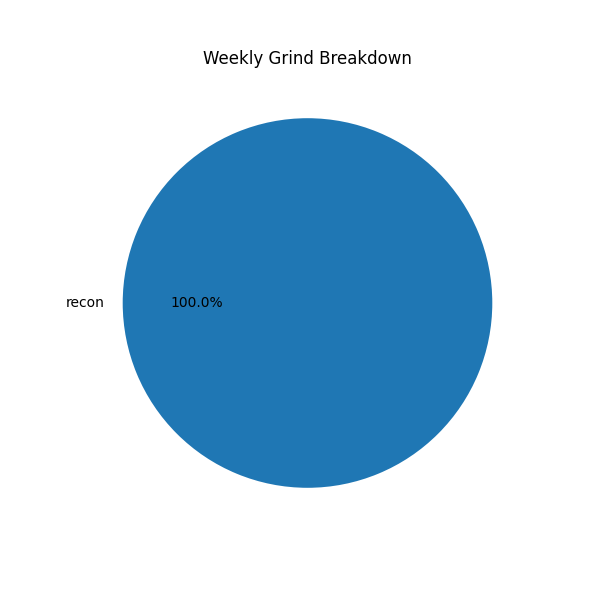
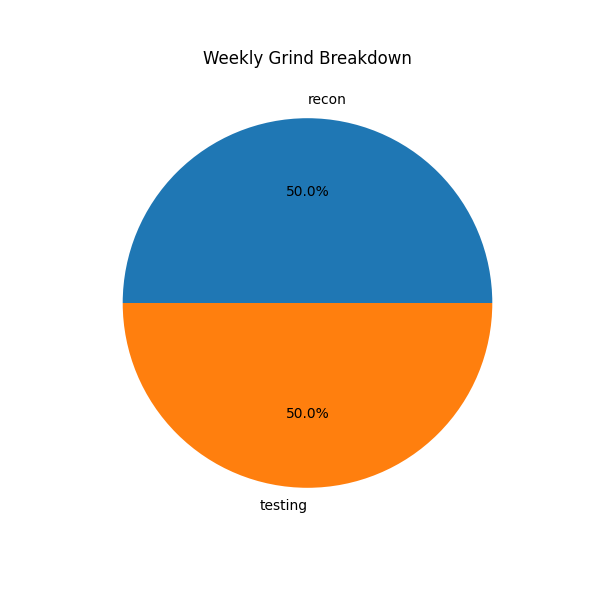
Auto-update: Logged 0.01 hrs to testing on 2025-07-23

diff --git a/README.md b/README.md
@@ -5,6 +5,7 @@
 | Category  | Time Spent (hrs) |
 |-----------|------------------|
 | recon    |   0.01 hrs        |
+| testing  |   0.01 hrs        |
 
 ## 📅 Daily Logs (Past 7 Days)
 
@@ -13,4 +14,5 @@
 | Category  | Time Spent (hrs) |
 |-----------|------------------|
 | recon    |   0.01 hrs        |
+| testing  |   0.01 hrs        |
 

diff --git a/grind_summary.md b/grind_summary.md
@@ -5,6 +5,7 @@
 | Category  | Time Spent (hrs) |
 |-----------|------------------|
 | recon    |   0.01 hrs        |
+| testing  |   0.01 hrs        |
 
 ## 📅 Daily Logs (Past 7 Days)
 
@@ -13,4 +14,5 @@
 | Category  | Time Spent (hrs) |
 |-----------|------------------|
 | recon    |   0.01 hrs        |
+| testing  |   0.01 hrs        |
 
